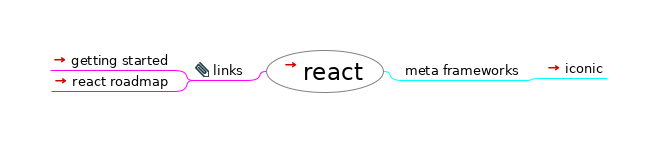
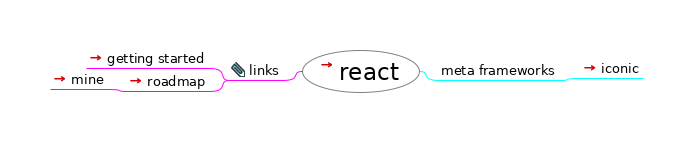
link to my own roadmap

Changed region(s): [[0.0609, 0.3357, 0.9437, 0.6713]]

diff --git a/react/index.html b/react/index.html
@@ -23,13 +23,14 @@
                    };
                };
           
-          --></script></head><body><h1>react</h1><div style="width:96%;  padding:2%;  margin-bottom:10px;  border: 0px;  text-align:center;  vertical-align:center;"><img src="index.html_files/image.png" style="margin-bottom:10px; &#9;border: 0px; &#9;text-align:center; &#9;vertical-align:center;" alt="Imagemap" usemap="#fm_imagemap" /></div><map name="fm_imagemap" id="fm_imagemap"><area shape="rect" href="../index.html" alt="react" title="react" coords="266,50,384,93" />
-<area shape="rect" href="#FMID_1544605098FM" alt="meta frameworks" title="meta frameworks" coords="403,62,525,80" />
-<area shape="rect" href="https://ionicframework.com/blog/announcing-ionic-react/" alt="iconic" title="iconic" coords="544,60,607,78" />
-<area shape="rect" href="#FMID_990086409FM" alt="links" title="links" coords="193,62,247,80" />
-<area shape="rect" href="https://reactjs.org/docs/getting-started.html" alt="getting started" title="getting started" coords="50,52,174,70" />
-<area shape="rect" href="https://github.com/adam-golab/react-developer-roadmap" alt="react roadmap" title="react roadmap" coords="51,73,174,91" />
+          --></script></head><body><h1>react</h1><div style="width:96%;  padding:2%;  margin-bottom:10px;  border: 0px;  text-align:center;  vertical-align:center;"><img src="index.html_files/image.png" style="margin-bottom:10px; &#9;border: 0px; &#9;text-align:center; &#9;vertical-align:center;" alt="Imagemap" usemap="#fm_imagemap" /></div><map name="fm_imagemap" id="fm_imagemap"><area shape="rect" href="../index.html" alt="react" title="react" coords="302,50,420,93" />
+<area shape="rect" href="#FMID_1544605098FM" alt="meta frameworks" title="meta frameworks" coords="439,62,561,80" />
+<area shape="rect" href="https://ionicframework.com/blog/announcing-ionic-react/" alt="iconic" title="iconic" coords="580,60,643,78" />
+<area shape="rect" href="#FMID_990086409FM" alt="links" title="links" coords="229,62,283,80" />
+<area shape="rect" href="https://reactjs.org/docs/getting-started.html" alt="getting started" title="getting started" coords="86,50,210,68" />
+<area shape="rect" href="https://github.com/adam-golab/react-developer-roadmap" alt="roadmap" title="roadmap" coords="126,73,210,91" />
+<area shape="rect" href="roadmap.html" alt="mine" title="mine" coords="50,71,107,89" />
 </map>
 
-<div class="node"><img src="index.html_files/hide.png" class="hideshow" alt="hide" onClick="toggle(&quot;N65543&quot;)" id="imgN65543" /><a id="FMID_43637424FM" /><div class="nodecontent" style="color:#000000;font-size:150%;"><a href="../index.html">react</a> <a href="../index.html"><img src="index.html_files/ilink.png" alt="User Link" style="border-width:0" /></a></div><div class="content" id="N65543"><div class="node"><img src="index.html_files/hide.png" class="hideshow" alt="hide" onClick="toggle(&quot;N66440&quot;)" id="imgN66440" /><a id="FMID_1544605098FM" /><div class="nodecontent" style="color:#000000;font-size:83%;">meta frameworks</div><div class="content" id="N66440"><div class="node"><img src="index.html_files/leaf.png" class="hideshow" alt="leaf" /><a id="FMID_662028730FM" /><div class="nodecontent" style="color:#000000;font-size:83%;"><a href="https://ionicframework.com/blog/announcing-ionic-react/">iconic</a> <a href="https://ionicframework.com/blog/announcing-ionic-react/"><img src="index.html_files/ilink.png" alt="User Link" style="border-width:0" /></a></div></div></div></div><div class="node"><img src="index.html_files/hide.png" class="hideshow" alt="hide" onClick="toggle(&quot;N66514&quot;)" id="imgN66514" /><img src="index.html_files/icons/attach.svg" alt="attach" /> <a id="FMID_990086409FM" /><div class="nodecontent" style="color:#000000;font-size:83%;">links</div><div class="content" id="N66514"><div class="node"><img src="index.html_files/leaf.png" class="hideshow" alt="leaf" /><a id="FMID_1710336257FM" /><div class="nodecontent" style="color:#000000;font-size:83%;"><a href="https://reactjs.org/docs/getting-started.html">getting started</a> <a href="https://reactjs.org/docs/getting-started.html"><img src="index.html_files/ilink.png" alt="User Link" style="border-width:0" /></a></div></div><div class="node"><img src="index.html_files/leaf.png" class="hideshow" alt="leaf" /><a id="FMID_1313044671FM" /><div class="nodecontent" style="color:#000000;font-size:83%;"><a href="https://github.com/adam-golab/react-developer-roadmap">react roadmap</a> <a href="https://github.com/adam-golab/react-developer-roadmap"><img src="index.html_files/ilink.png" alt="User Link" style="border-width:0" /></a></div></div></div></div></div></div>
+<div class="node"><img src="index.html_files/hide.png" class="hideshow" alt="hide" onClick="toggle(&quot;N65543&quot;)" id="imgN65543" /><a id="FMID_43637424FM" /><div class="nodecontent" style="color:#000000;font-size:150%;"><a href="../index.html">react</a> <a href="../index.html"><img src="index.html_files/ilink.png" alt="User Link" style="border-width:0" /></a></div><div class="content" id="N65543"><div class="node"><img src="index.html_files/hide.png" class="hideshow" alt="hide" onClick="toggle(&quot;N66440&quot;)" id="imgN66440" /><a id="FMID_1544605098FM" /><div class="nodecontent" style="color:#000000;font-size:83%;">meta frameworks</div><div class="content" id="N66440"><div class="node"><img src="index.html_files/leaf.png" class="hideshow" alt="leaf" /><a id="FMID_662028730FM" /><div class="nodecontent" style="color:#000000;font-size:83%;"><a href="https://ionicframework.com/blog/announcing-ionic-react/">iconic</a> <a href="https://ionicframework.com/blog/announcing-ionic-react/"><img src="index.html_files/ilink.png" alt="User Link" style="border-width:0" /></a></div></div></div></div><div class="node"><img src="index.html_files/hide.png" class="hideshow" alt="hide" onClick="toggle(&quot;N66514&quot;)" id="imgN66514" /><img src="index.html_files/icons/attach.svg" alt="attach" /> <a id="FMID_990086409FM" /><div class="nodecontent" style="color:#000000;font-size:83%;">links</div><div class="content" id="N66514"><div class="node"><img src="index.html_files/leaf.png" class="hideshow" alt="leaf" /><a id="FMID_1710336257FM" /><div class="nodecontent" style="color:#000000;font-size:83%;"><a href="https://reactjs.org/docs/getting-started.html">getting started</a> <a href="https://reactjs.org/docs/getting-started.html"><img src="index.html_files/ilink.png" alt="User Link" style="border-width:0" /></a></div></div><div class="node"><img src="index.html_files/hide.png" class="hideshow" alt="hide" onClick="toggle(&quot;N66592&quot;)" id="imgN66592" /><a id="FMID_1313044671FM" /><div class="nodecontent" style="color:#000000;font-size:83%;"><a href="https://github.com/adam-golab/react-developer-roadmap">roadmap</a> <a href="https://github.com/adam-golab/react-developer-roadmap"><img src="index.html_files/ilink.png" alt="User Link" style="border-width:0" /></a></div><div class="content" id="N66592"><div class="node"><img src="index.html_files/leaf.png" class="hideshow" alt="leaf" /><a id="FMID_63308067FM" /><div class="nodecontent" style="color:#000000;font-size:83%;"><a href="roadmap.html">mine</a> <a href="roadmap.html"><img src="index.html_files/ilink.png" alt="User Link" style="border-width:0" /></a></div></div></div></div></div></div></div></div>
 </body></html>
